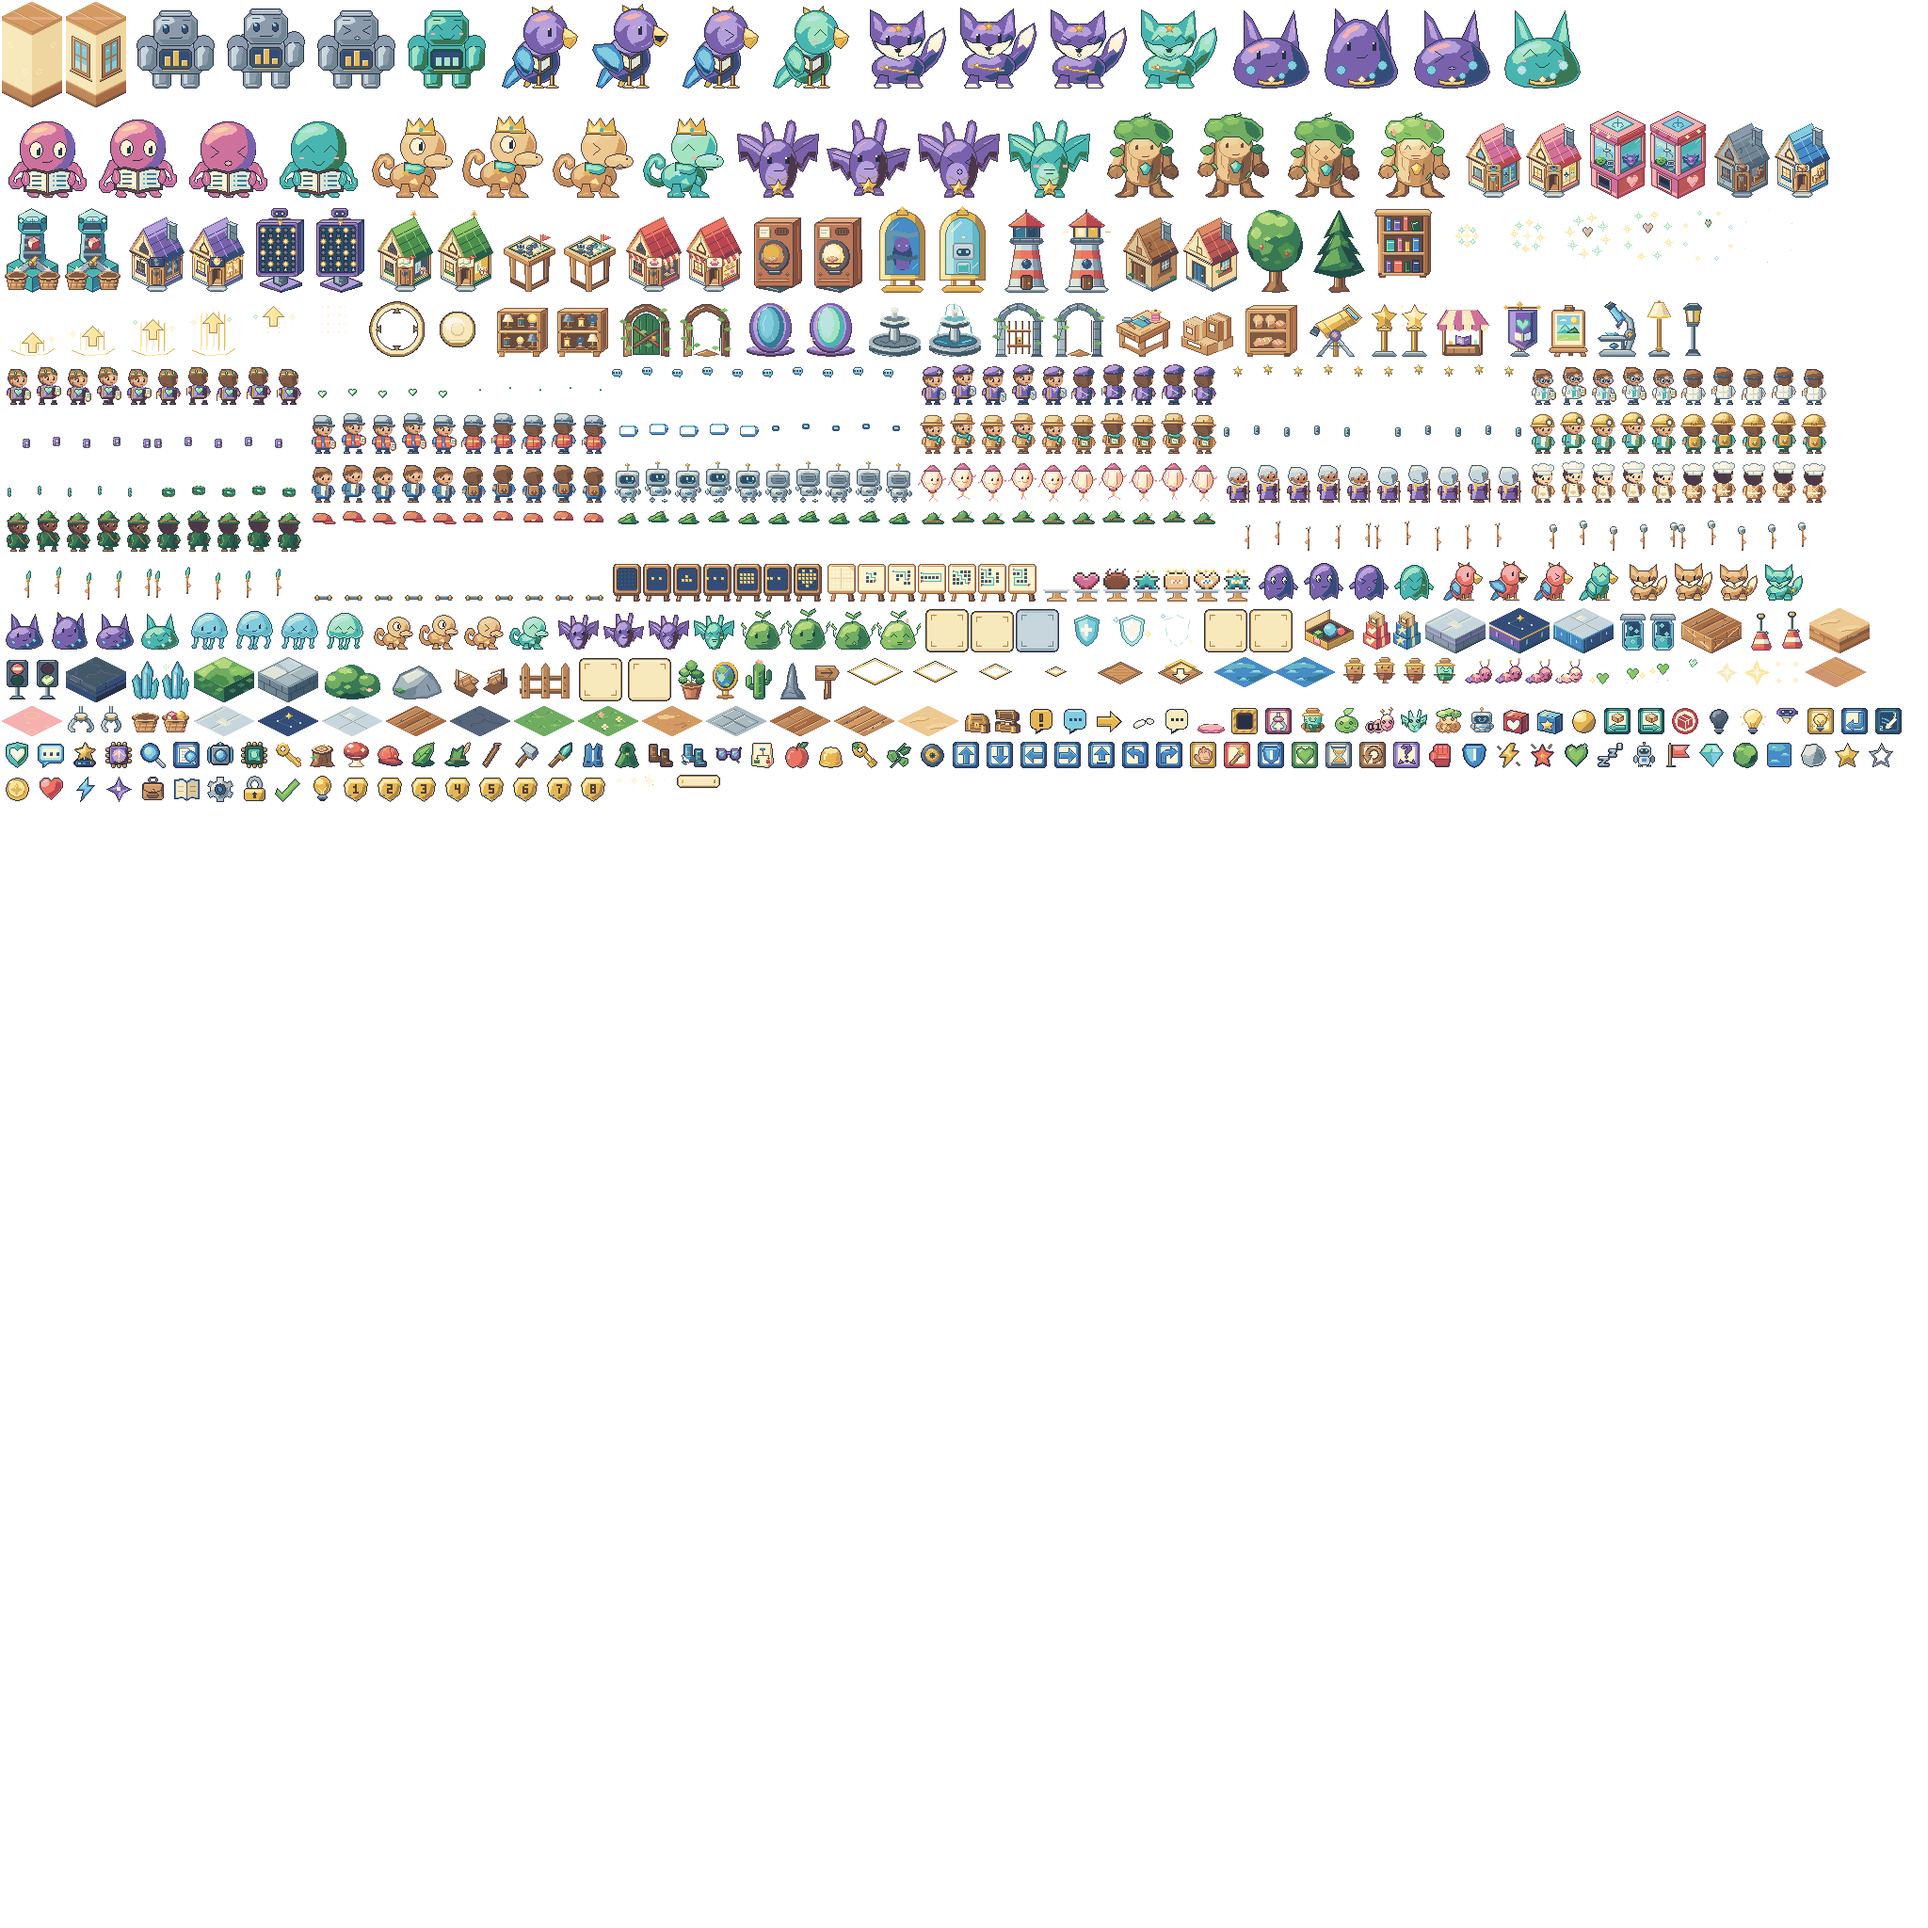
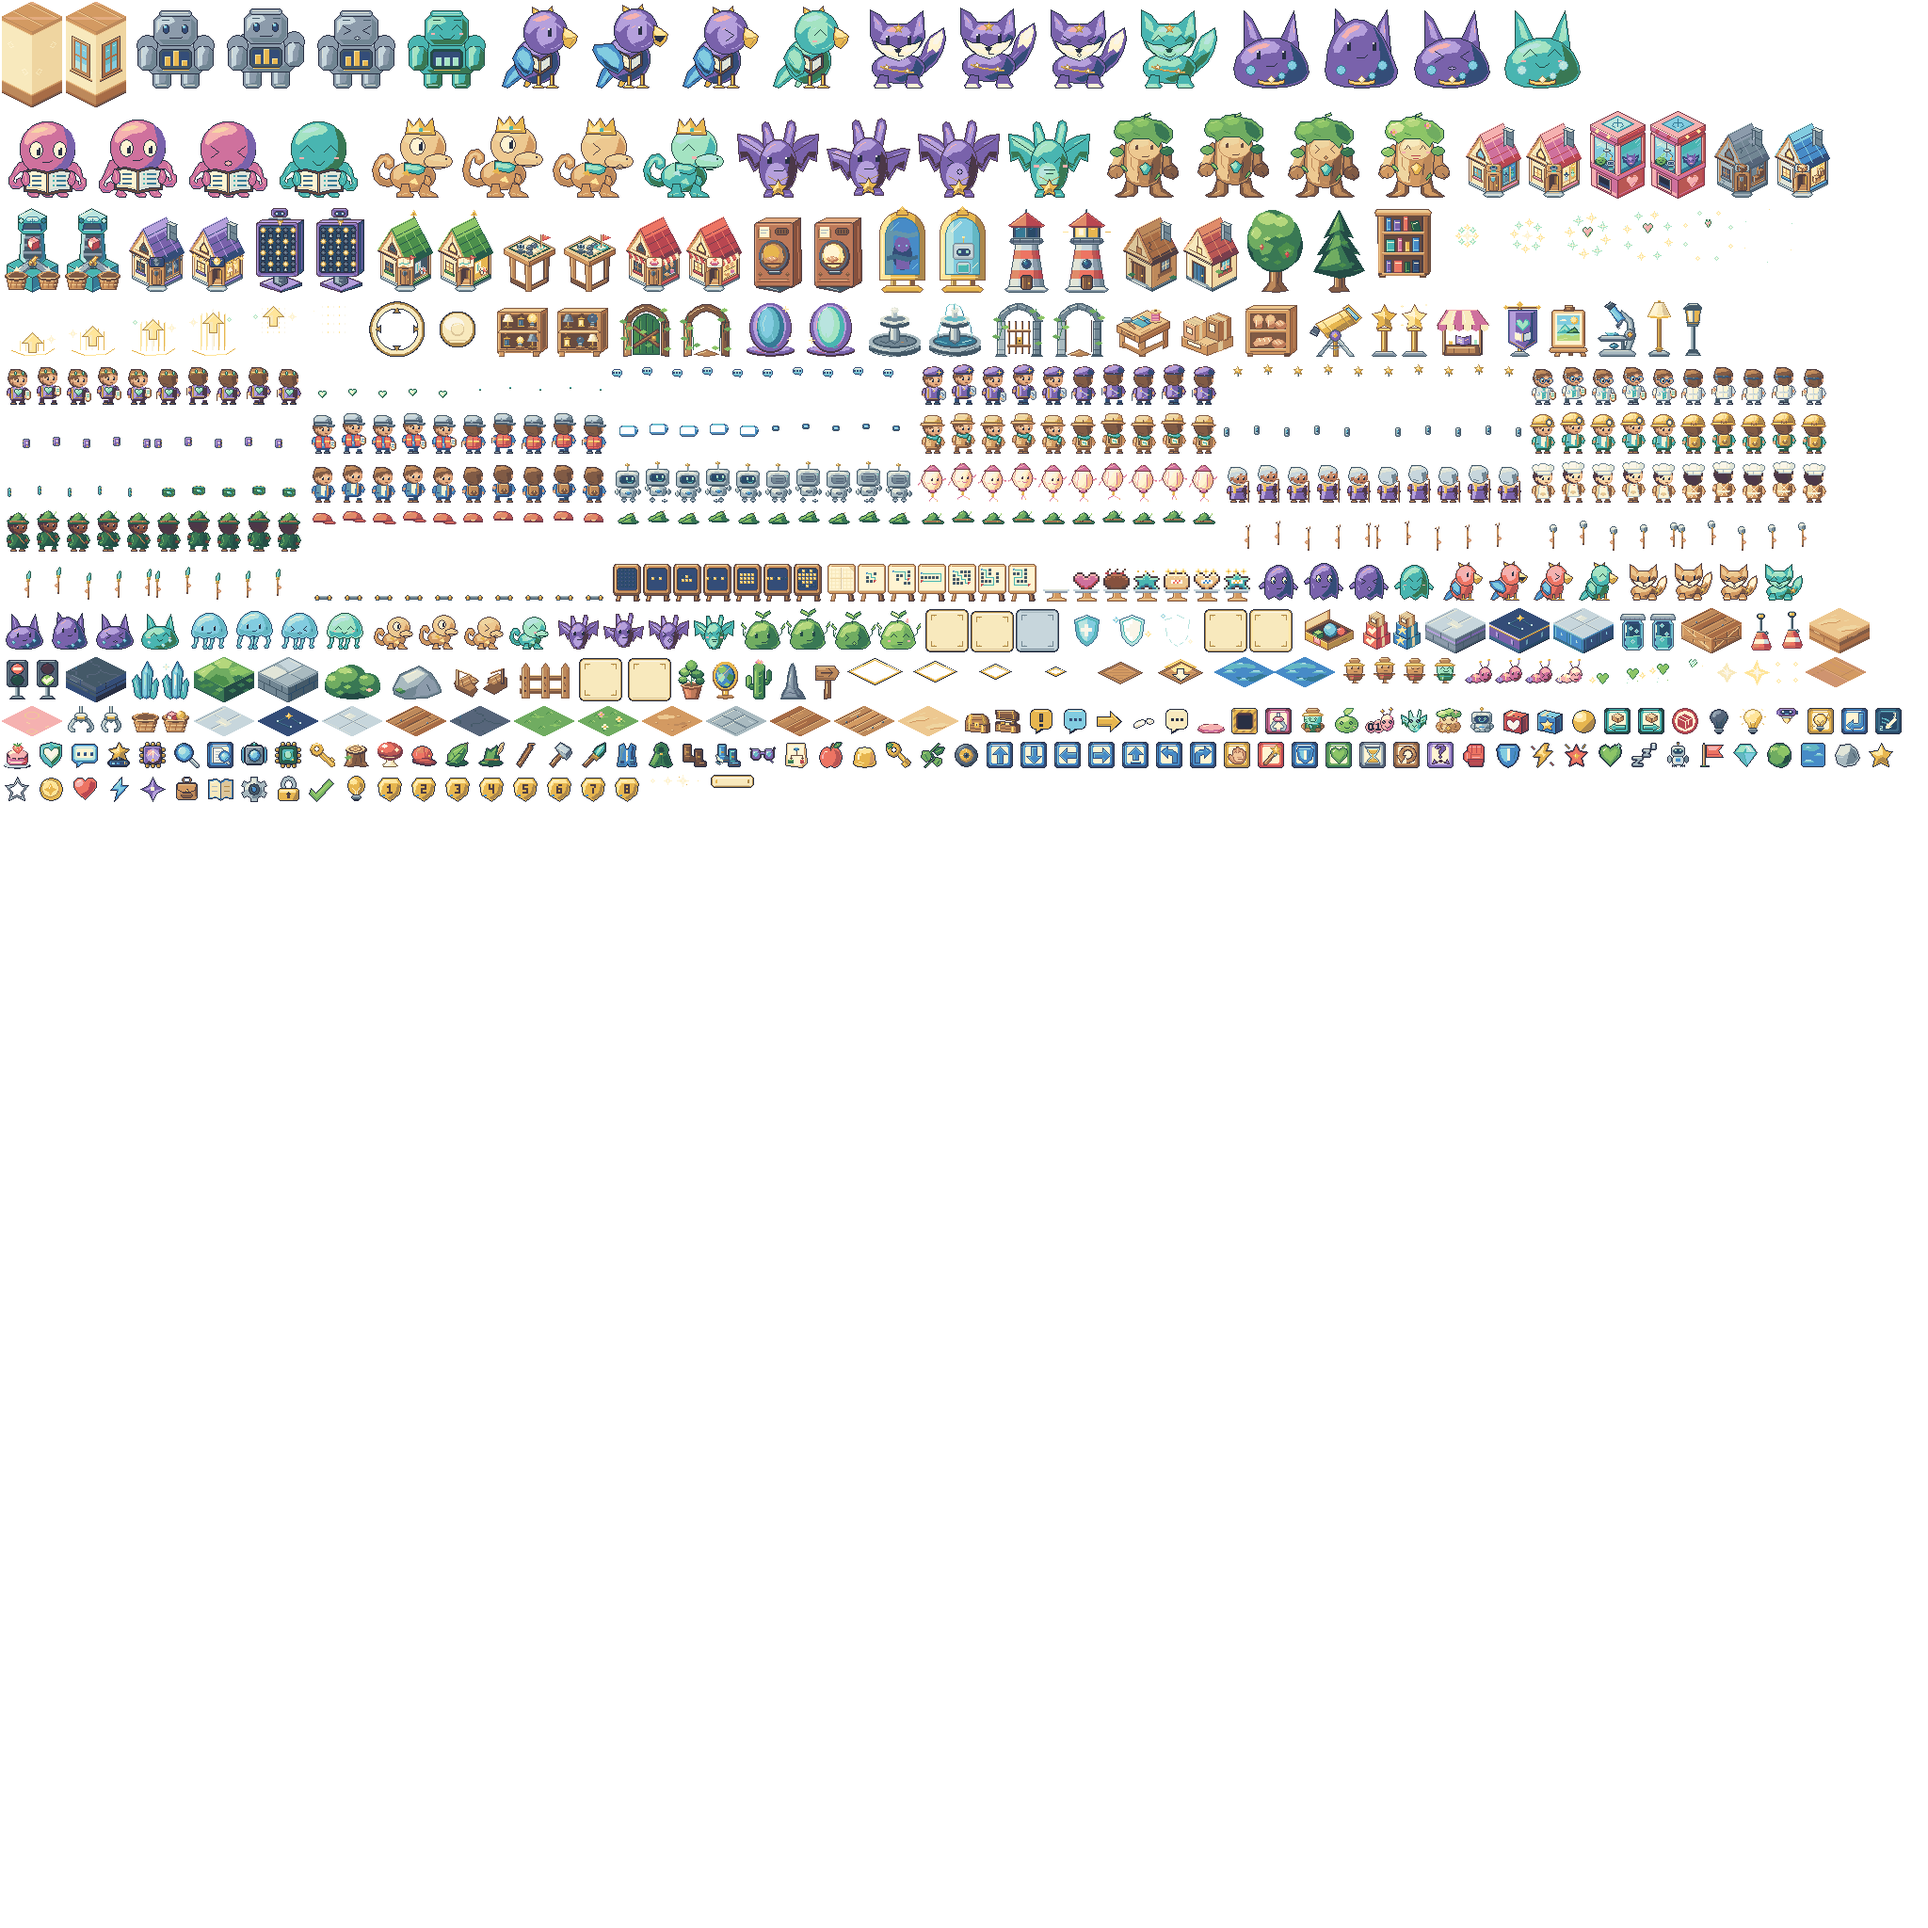
C19-2: 케이크 놀이 아이콘 2배 그림

Changed region(s): [[0.0, 0.375, 0.5312, 0.4375], [0.5938, 0.375, 0.9688, 0.4062]]

diff --git a/docs/tasks/codex-19-progress.md b/docs/tasks/codex-19-progress.md
@@ -30,3 +30,32 @@
 재생성: `node assets-src/tools/draw-c19-1-house.mjs` → `node assets-src/tools/draw-c19-1-furniture.mjs` → `node assets-src/tools/draw-c19-1-stands.mjs` → `npm run assets` → `node assets-src/tools/preview-c19.mjs 1` → `node assets-src/tools/check-c19.mjs 1`.
 
 브라우저 증거: `C:/Users/tbose/.codex/visualizations/2026/11/04/01a1a6c9-8349-7712-84d3-50667c5011e1/output/playwright/`의 `c19-stage1-*`, `c19-gallery-1-result.txt`.
+
+## 2단계 — 놀이 아이콘
+
+- 완료 **1키·1프레임**: `icon-cake` 32×32, density 2. C19 전체 **5키·13프레임 완료**, 남은 키 없음.
+- 짙은 외곽선 안에 분홍 크림의 둥근 케이크, 흰 크림 층과 흘러내림, 초록 잎·씨앗이 있는 빨간 딸기, 은색 접시를 그렸어요. 가격표·로고·글자 없이 구분해요.
+- 검토판 `assets-preview/compare-19-2.png`에 실제 임시/새 그림을 나란히 놓고, 어두운 창과 크림색 바탕 각각 48px·28px로 비교했어요. 두 크기 모두 딸기와 크림 층이 구분돼요. 커밋 제외 경로예요.
+- `npm run assets`, `npm test` **28파일·378개**, `npm run build`, `node assets-src/tools/check-c19.mjs 2` 통과.
+- 새 원본→PNG **40,448픽셀**, 발밑 **1,632픽셀 투명**, 케이크 핵심 색상 **806곳** 및 토핑/글씨 판의 2×2 영역 전체, 전체 PNG→아틀라스 **1,385,728픽셀 일치**.
+- 아틀라스 **2048×2048**, 생성된 **237키·599프레임 모두 density 2**, 빠진 키 없음. 갤러리 **237키·599프레임·664이미지** 검사 오류 0, 페이지 오류 0.
+- 실제 UI 버튼으로 **6판 모두 별 3개**, 6판의 손님 3명까지 완료했어요. 3판의 애매한 주문과 5판의 다른 모양/글씨 판을 구운 뒤 안내를 보고 고쳐 성공했어요.
+- 4판은 정해진 개인정보 카드(받는 친구 이름과 반)를 골라 `개인정보는 넣지 않아요`와 `굽지 않았어요` 표시를 확인했어요. 실제 개인정보는 입력하지 않았어요. 이 시도 뒤 판 목록으로 돌아가 새로 시작해 안전한 주문으로 별 3개를 받았어요.
+- 3~6판은 지시서가 허용한 `talkModule` 추가로 열었어요. 자연스러운 7장 진행을 통한 해금 검사는 아니에요.
+- 320·390·1360px 화면에서 판 목록 아이콘 **48×48**, 오븐 아이콘 **28×28**, 원본 **32×32**와 로드 완료를 확인했어요. 여섯 조합 모두 문서 가로 넘침 0. 실제 390px 주문 화면과 완성 케이크 6개가 놓인 실내 촬영본도 눈으로 확인했어요.
+- 성공 뒤 `cake:r1~r6`가 모두 true, 진열대 프레임 **1~6**, 칭호 **주문서 장인**, 경험치/코인 **0/0**. 새로고침→이어하기 후에도 6개 플래그·각 판 별 3개·칭호·경험치/코인이 유지됐어요. 페이지 오류 0.
+- 전용 브라우저 `elai-c19`와 이 작업의 **5176 개발 서버를 종료**했고 포트가 더 이상 열려 있지 않음을 확인했어요.
+- 아이콘은 그림자·불빛 대상이 아니에요. 소품의 그림자·불빛은 위 1단계 표 그대로이며, 추가 색 필요 없음.
+
+재생성: `node assets-src/tools/draw-c19-2-icon.mjs` → `npm run assets` → `node assets-src/tools/preview-c19.mjs 2` → `node assets-src/tools/check-c19.mjs 2`.
+
+브라우저 증거: 앞서 적은 Playwright 폴더의 `c19-gallery-2-result.txt`, `c19-stage2-play-result.txt`, `c19-persist-result.txt`, `c19-rounds-*`, `c19-oven-*`, `c19-r*-success.png`, `c19-r3-revise.png`, `c19-r5-revise.png`, `c19-r4-privacy.png`, `c19-earned-cakes.png`.
+
+## 최종 검토와 후속 작업
+
+- 1단계 커밋: `42a3aab` — `C19-1: 빵집 건물과 방 소품 2배 그림`.
+- 2단계: 이 기록을 포함한 `C19-2: 케이크 놀이 아이콘 2배 그림` 커밋. 정확한 해시는 `git log`와 최종 보고에서 확인해요.
+- Claude 검토: 마을 건물들과 빨강·흰 차양의 조화, 오븐 창의 밝기 변화, 작은 진열대에서 체리·꽃·별사탕 및 글씨 판의 빨강·파랑·노랑 점 식별, 28px 아이콘의 외곽선과 딸기 식별을 봐 주세요. 색상/위치는 자동 대조했지만 작은 화면에서의 구분은 시각 판단이 필요해요.
+- 실제 휴대폰 터치 조작과 자연스러운 장 진행·해금은 미검증이에요. 이번 작업에서는 데스크톱 브라우저의 모바일 화면 크기로 확인했어요.
+- **필요한 변경: 없음.** 범위 밖 파일을 고치지 않았어요. 남은 그림 키와 추가 팔레트 색도 없어요.
+- main 반영·원격 push·배포는 이번 작업에 포함하지 않았어요. Claude 검토 후 통합할 수 있어요.
